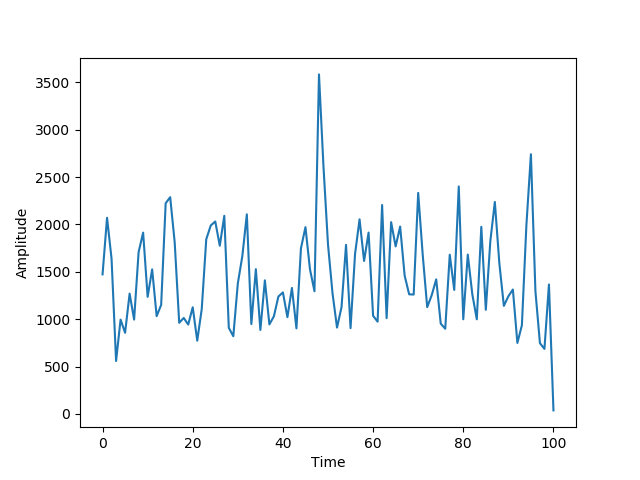
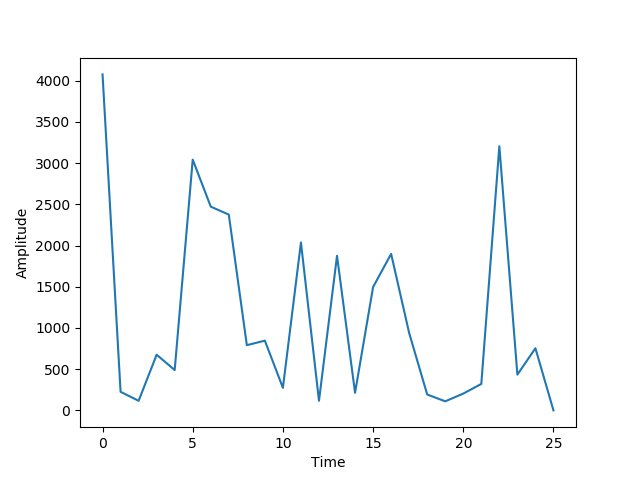
Fix audio analysis bug, display proper

diff --git a/analysis/analysis.py b/analysis/analysis.py
@@ -13,7 +13,7 @@ import matplotlib.pyplot as plt
 np.set_printoptions(threshold=sys.maxsize)
 sounds = []
 channel1 = []
-frame_rate = 1000
+frame_total = 1000
 chunk_size = 1
 
 file_list = os.listdir(".")
@@ -28,12 +28,14 @@ for (index, sound) in enumerate(sounds):
     except:
         pass
 
-    sound = sound[::len(sound)//frame_rate]
+    sound = sound[::len(sound)//frame_total]
     current_loudest = 0
 
     for i in range(len(sound)):
-        volume = sound[i][0]
+        volume = sound[i][0] # ASSUMES A STEREO SOUND FILE --> Remove [0] for mono files
+        print(sound[i])
         channel1.append(abs(volume))
+        #Thresholding is for sound event determination:
         if abs(volume) > current_loudest:
             current_loudest = abs(volume)
 
@@ -55,7 +57,7 @@ def chonk_avg(arr, chunk_size):
     #Produces a new array of the average volume in each chunk of chunk size
     #New array contains (len(arr)//chunk_size) chunks
     chonks = []
-    newLen = frame_rate//chunk_size
+    newLen = frame_total//chunk_size
     for i in range(newLen + 1):
         chunksum = 0
         for val in arr[i*chunk_size : i*chunk_size + chunk_size]:
@@ -64,9 +66,9 @@ def chonk_avg(arr, chunk_size):
         chonks.append(chunksum)
     return chonks
 
-def drawPlot(channelLength, channel, plotId):
+def drawPlot(channel, plotId):
     plot = plt.figure(plotId)
-    plt.plot(range(channelLength + 1), channel)
+    plt.plot(range(len(channel)), channel)
     plt.xlabel('Time')
     plt.ylabel('Amplitude')
     plt.savefig('plot.png')
@@ -74,9 +76,9 @@ def drawPlot(channelLength, channel, plotId):
 
 
 
-g = drawPlot(frame_rate//chunk_size, channel1, 0)
-f = drawPlot(frame_rate//10, chonk_avg(channel1, 10), 1)
+g = drawPlot(channel1, 0)
+f = drawPlot(chonk_avg(channel1, 40), 1)
 plt.show()
 
-# plt.plot(range(frame_rate/chunk_size + 1), channel1)
+# plt.plot(range(frame_total/chunk_size + 1), channel1)
 
